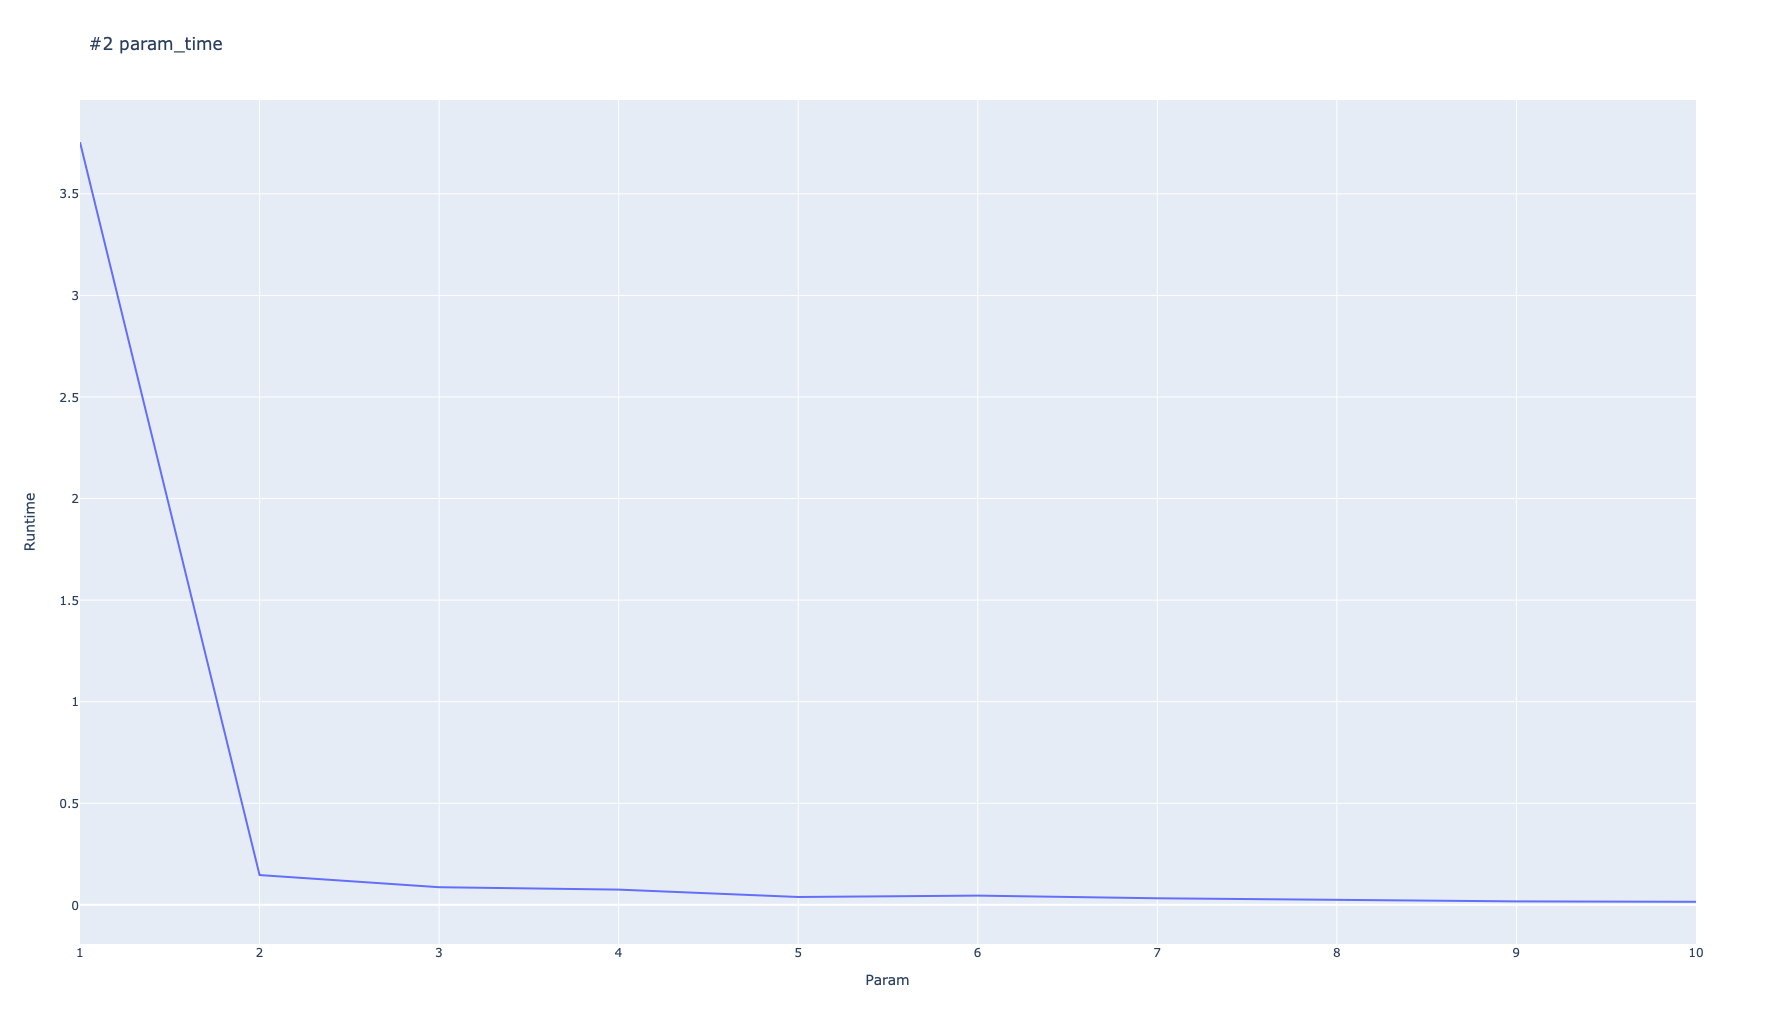
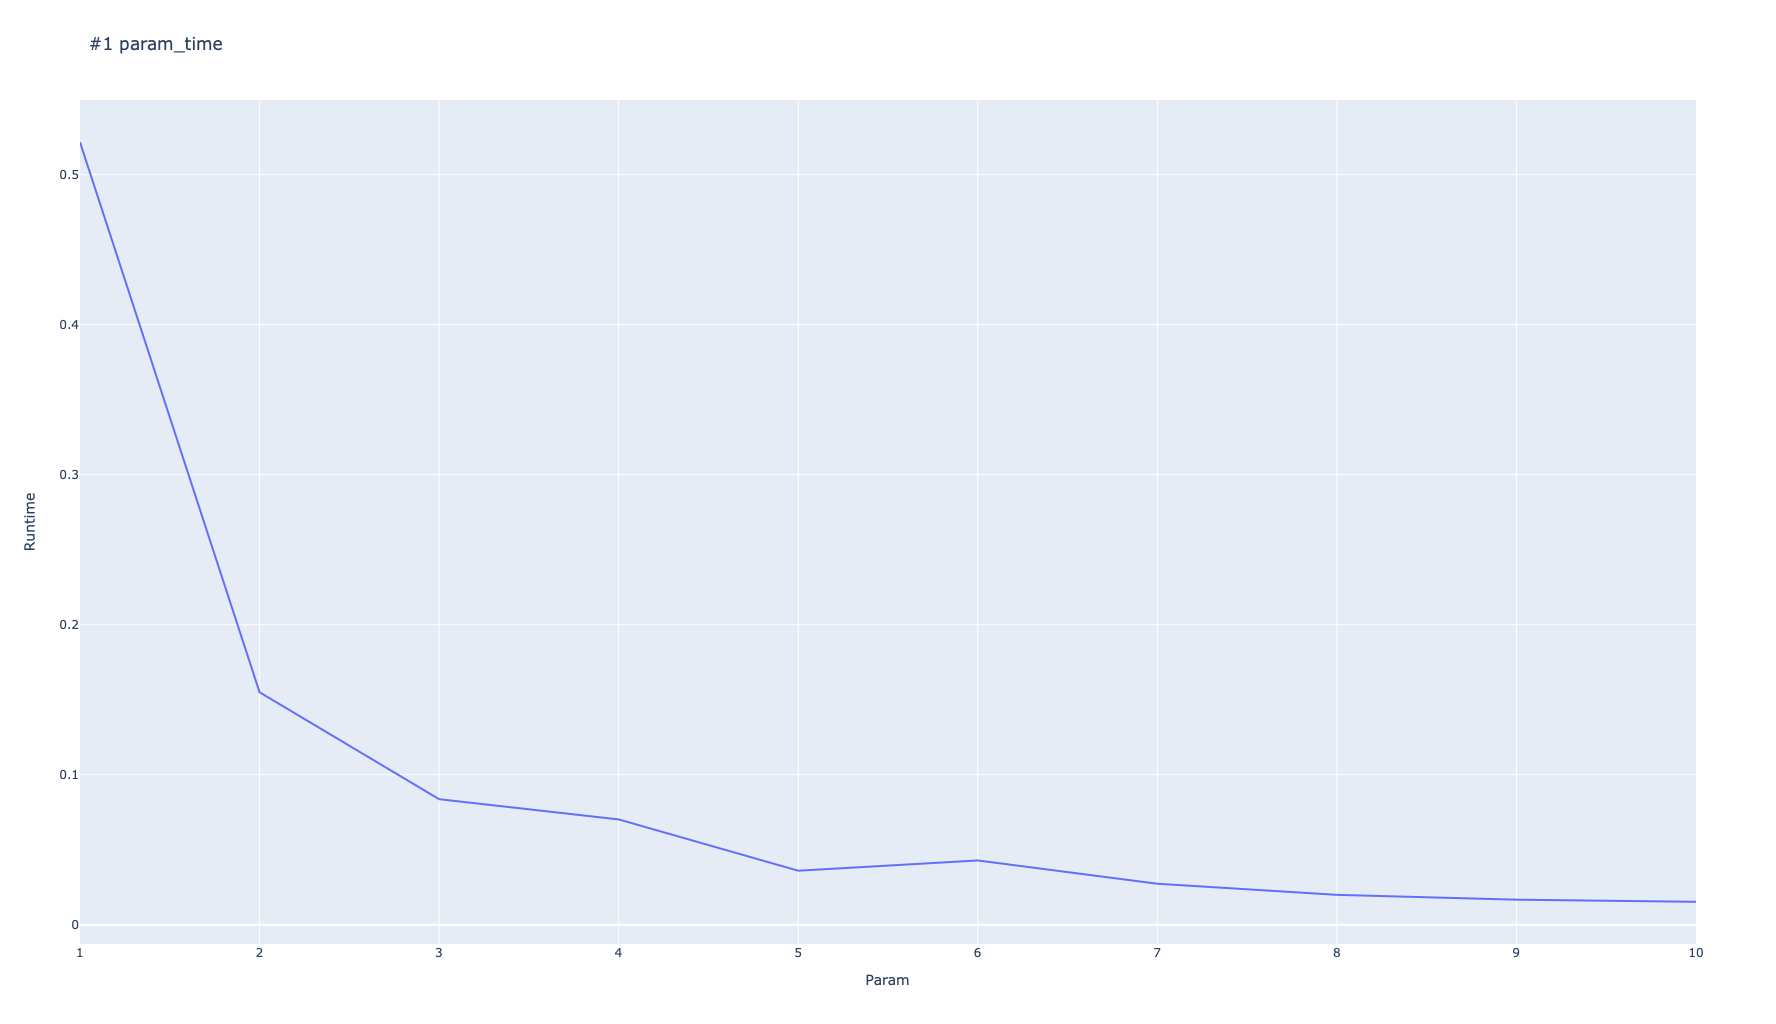
Exp1 updated

diff --git a/script.py b/script.py
@@ -19,9 +19,9 @@ def set_param(x, resolve, space_threads, time_threads, space_opt, print_data):
 data = []
 data_param_error=[]
 data_param_time=[]
-for i in [5,6,7,8,9]:
+for i in [1,2,3,4,5,6,7,8,9,10]:
     print("Processing i = " + str(i))
-    set_param(i, 1, 1, 1, False, False)
+    set_param(5, 1, 1, i, False, False)
     process = subprocess.Popen(["./program", "trafficvideo.mp4", "empty.jpg"], stdout = subprocess.PIPE, universal_newlines = True)
     lines = process.stdout.readlines()
     lines = [line.rstrip("\n") for line in lines]
@@ -36,20 +36,20 @@ def plot_param_error():
     df = pd.DataFrame(data_param_error, columns = ["Param", "Queue", "Dynamic"])
     print(df)
     # df = df.sort_values(by = "Runtime")
-    fig = px.line(df, x = "Param", y = ["Queue", "Dynamic"] , title = "#1 param_error")
+    fig = px.line(df, x = "Param", y = ["Queue", "Dynamic"] , title = "#3 param_error")
     fig.show()
     
 def plot_param_time():
     df = pd.DataFrame(data_param_time, columns = ["Param", "Runtime"])
     print(df)
     # df = df.sort_values(by = "Runtime")
-    fig = px.line(df, x = "Param", y = "Runtime" , title = "#2 param_time")
+    fig = px.line(df, x = "Param", y = "Runtime" , title = "#3 param_time")
     fig.show()
 
 def plot_error_time():
     df = pd.DataFrame(data, columns = ["Queue", "Dynamic", "Runtime"])
+    df = df.sort_values(by = "Runtime")
     print(df)
-    # df = df.sort_values(by = "Runtime")
     fig = px.line(df, x = "Runtime", y = ["Queue", "Dynamic"], title = "#3 error_time")
     fig.show()
 
